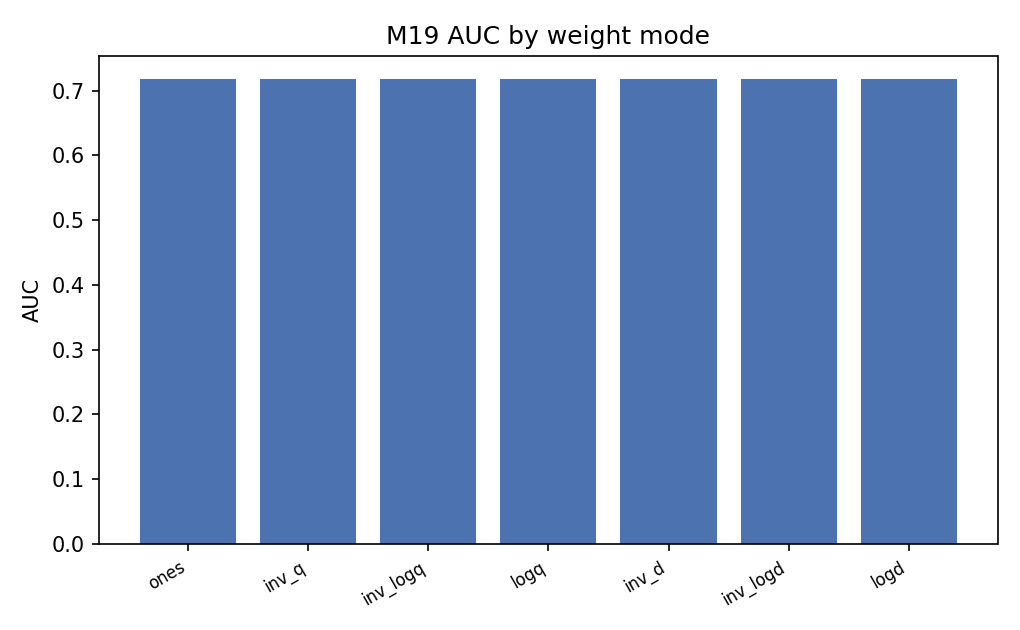
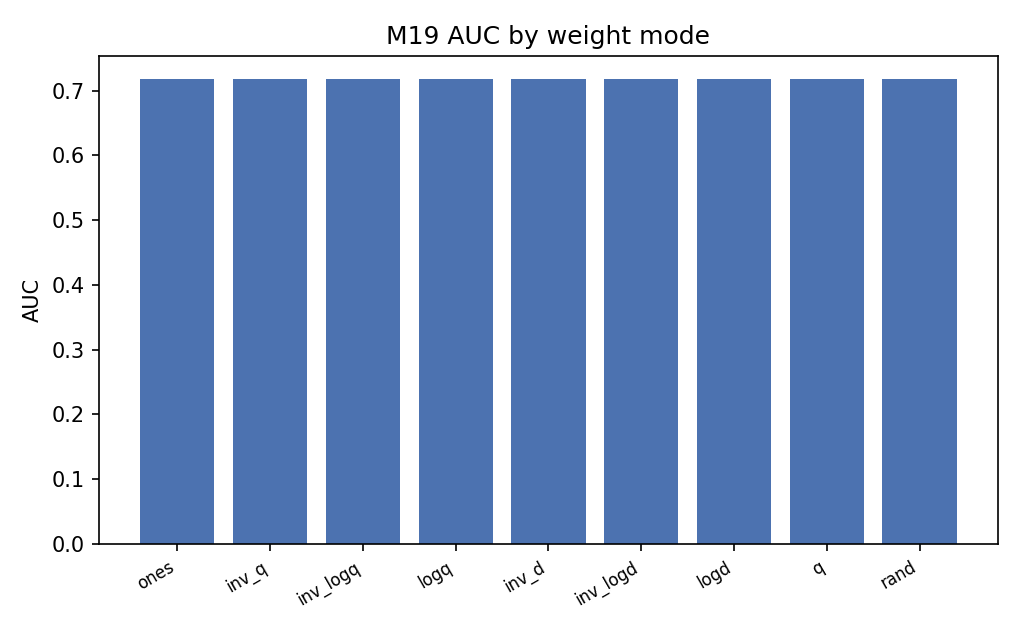
Wave Atlas: M19 sanity check + M18b note

diff --git a/code/scripts/m19_weight_tuning.py b/code/scripts/m19_weight_tuning.py
@@ -18,6 +18,7 @@ def parse_args() -> argparse.Namespace:
     p.add_argument("--Q0", type=int, default=50000)
     p.add_argument("--Q1", type=int, default=200000)
     p.add_argument("--weights", type=str, required=True)
+    p.add_argument("--seed", type=int, default=123)
     p.add_argument("--out-dir", type=str, required=True)
     return p.parse_args()
 
@@ -65,9 +66,11 @@ def ord_mod_2(q: int, primes: List[int]) -> int:
     return d
 
 
-def weight_fn(q: int, d: int, mode: str) -> float:
+def weight_fn(q: int, d: int, mode: str, rand_map: Dict[int, float]) -> float:
     if mode == "ones":
         return 1.0
+    if mode == "q":
+        return float(q)
     if mode == "inv_q":
         return 1.0 / q
     if mode == "inv_logq":
@@ -80,6 +83,8 @@ def weight_fn(q: int, d: int, mode: str) -> float:
         return 1.0 / math.log(d)
     if mode == "logd":
         return math.log(d)
+    if mode == "rand":
+        return rand_map[q]
     raise ValueError(f"Unknown weight mode: {mode}")
 
 
@@ -161,11 +166,15 @@ def main() -> None:
     rows = []
     for mode in weights:
         weight_by_d: Dict[int, float] = {}
+        rand_map: Dict[int, float] = {}
+        if mode == "rand":
+            rng = np.random.default_rng(args.seed)
+            rand_map = {q: float(rng.random()) for q in primes_q}
         for q in primes_q:
             if q > args.Q0:
                 break
             d = ords[q]
-            weight_by_d[d] = weight_by_d.get(d, 0.0) + weight_fn(q, d, mode)
+            weight_by_d[d] = weight_by_d.get(d, 0.0) + weight_fn(q, d, mode, rand_map)
 
         scores = np.zeros(len(p_vals), dtype=float)
         for d, w in weight_by_d.items():

diff --git a/docs/wave_atlas.tex b/docs/wave_atlas.tex
@@ -616,6 +616,8 @@ absolute terms even when ranking quality is strong.
 We test the spectral density score across larger $p_{\max}$ and multiple
 $(Q_0,Q_1)$ pairs to confirm that ranking quality persists beyond the
 demonstration range.
+As $p_{\max}$ grows with fixed $Q_1$, baseline survival rises and the ceiling
+for enrichment necessarily drops.
 
 \begin{figure}[h]
 \centering

diff --git a/docs/ROADMAP.md b/docs/ROADMAP.md
@@ -232,6 +232,11 @@ PYTHONPATH=code python code/scripts/m19_weight_tuning.py \
   --p-mode prime \
   --Q0 50000 \
   --Q1 200000 \
-  --weights ones,inv_q,inv_logq,logq,inv_d,inv_logd,logd \
+  --weights ones,inv_q,inv_logq,logq,inv_d,inv_logd,logd,q,rand \
+  --seed 123 \
   --out-dir out/wave_atlas/m19
 ```
+
+**Риски/заметки:** sanity-check показал инвариантность метрик к весам при p-mode=prime,
+поскольку для простого p условие d(q)|p сводится к d(q)=p; для тюнинга весов
+нужна модификация цели или p-mode=all.

diff --git a/docs/WAVE_ATLAS_RELEASE_NOTES.md b/docs/WAVE_ATLAS_RELEASE_NOTES.md
@@ -105,3 +105,11 @@ Commit: (tag wave-atlas-v1.9)
 Changes: M18b scaling/generalization + M19 weight tuning for spectral density.
 PDF size: 1701909 bytes
 PDF SHA256: 3FAB2A7EF7F86B03F350C82FD5A9D05FD7C8F67BAA6FD0BEC78A520087839DBF
+
+Wave Atlas v1.9.1 Release Notes
+
+Tag: wave-atlas-v1.9.1
+Commit: (tag wave-atlas-v1.9.1)
+Changes: M19 weight sanity check (q/rand) + M18b baseline-survival note in TeX.
+PDF size: 1704048 bytes
+PDF SHA256: A413EFA225F1C48605A4446B7E31204CBF24668A72E8C02D64A232CB382A513B
